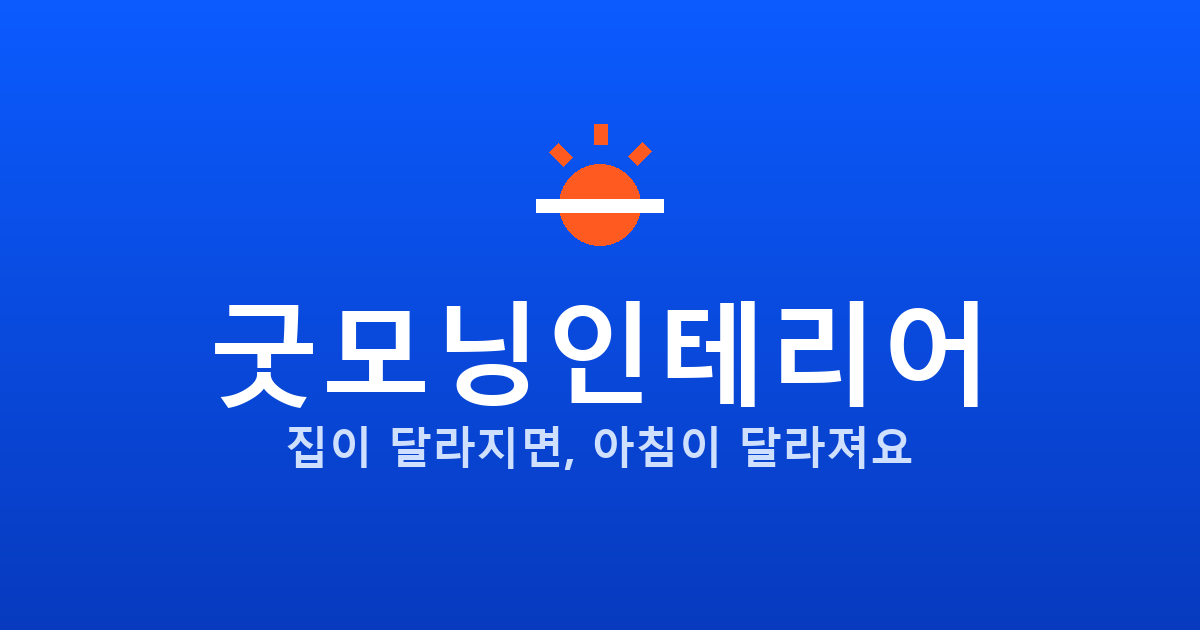
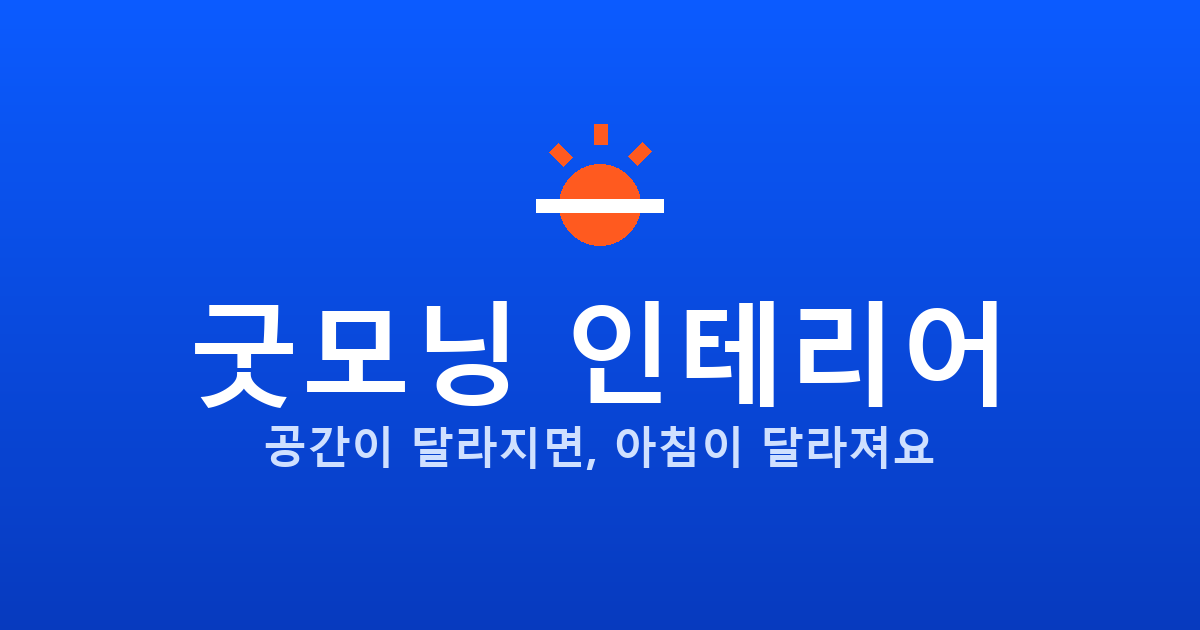
상호 띄어쓰기 + 슬로건 문구 + 지하철 배지 정리
- 굿모닝인테리어 -> 굿모닝 인테리어 (타이틀/OG/브랜드/푸터 전체)
- 슬로건: 집이 달라지면 -> 공간이 달라지면 (브랜드/OG/메타)
- 주소줄의 파란 4호선 배지 아이콘 삭제(게이트·푸터), 4호선 텍스트는 유지
- OG 이미지 상호/슬로건 반영해 재생성

Changed region(s): [[0.1542, 0.4524, 0.8325, 0.754]]

diff --git a/index.html b/index.html
@@ -1,24 +1,24 @@
 <meta charset="utf-8">
-<title>굿모닝인테리어 — 상계동 인테리어 시공·리모델링</title>
+<title>굿모닝 인테리어 — 상계동 인테리어 시공·리모델링</title>
 <meta name="viewport" content="width=device-width, initial-scale=1, viewport-fit=cover">
-<meta name="description" content="서울 노원구 상계동 굿모닝인테리어 — 아파트·빌라·상가 인테리어 시공과 리모델링. 시공사례를 보고 무료 견적을 받아보세요. 4호선 불암산역 3번 출구 50m.">
+<meta name="description" content="서울 노원구 상계동 굿모닝 인테리어 — 아파트·빌라·상가 인테리어 시공과 리모델링. 시공사례를 보고 무료 견적을 받아보세요. 4호선 불암산역 3번 출구 50m.">
 <link rel="canonical" href="https://gmit.pages.dev/">
 <link rel="icon" href="favicon.svg" type="image/svg+xml">
 <link rel="icon" href="favicon.ico" sizes="any">
 <link rel="apple-touch-icon" href="apple-touch-icon.png">
 <meta property="og:type" content="website">
-<meta property="og:site_name" content="굿모닝인테리어">
-<meta property="og:title" content="굿모닝인테리어 — 상계동 인테리어 시공·리모델링">
-<meta property="og:description" content="집이 달라지면, 아침이 달라져요. 시공사례를 보고 무료 견적을 받아보세요. 4호선 불암산역 3번 출구 50m.">
+<meta property="og:site_name" content="굿모닝 인테리어">
+<meta property="og:title" content="굿모닝 인테리어 — 상계동 인테리어 시공·리모델링">
+<meta property="og:description" content="공간이 달라지면, 아침이 달라져요. 시공사례를 보고 무료 견적을 받아보세요. 4호선 불암산역 3번 출구 50m.">
 <meta property="og:image" content="https://gmit.pages.dev/og.png">
 <meta property="og:image:width" content="1200">
 <meta property="og:image:height" content="630">
-<meta property="og:image:alt" content="굿모닝인테리어 — 집이 달라지면, 아침이 달라져요">
+<meta property="og:image:alt" content="굿모닝 인테리어 — 공간이 달라지면, 아침이 달라져요">
 <meta property="og:url" content="https://gmit.pages.dev/">
 <meta property="og:locale" content="ko_KR">
 <meta name="twitter:card" content="summary_large_image">
-<meta name="twitter:title" content="굿모닝인테리어 — 상계동 인테리어 시공·리모델링">
-<meta name="twitter:description" content="집이 달라지면, 아침이 달라져요. 시공사례를 보고 무료 견적을 받아보세요.">
+<meta name="twitter:title" content="굿모닝 인테리어 — 상계동 인테리어 시공·리모델링">
+<meta name="twitter:description" content="공간이 달라지면, 아침이 달라져요. 시공사례를 보고 무료 견적을 받아보세요.">
 <meta name="twitter:image" content="https://gmit.pages.dev/og.png">
 <style>
   :root {
@@ -398,10 +398,10 @@
         <line x1="5" y1="7" x2="7.4" y2="9.4" stroke="var(--orange)" stroke-width="2" stroke-linecap="round"/>
         <line x1="21" y1="7" x2="18.6" y2="9.4" stroke="var(--orange)" stroke-width="2" stroke-linecap="round"/>
       </svg>
-      <span class="brand-name">굿모닝인테리어</span>
+      <span class="brand-name">굿모닝 인테리어</span>
     </h1>
-    <p class="brand-tag">집이 달라지면, 아침이 달라져요</p>
-    <p class="brand-where"><span class="badge-line4" aria-hidden="true">4</span> 4호선 불암산역 3번 출구 50m · 서울 노원구 상계동</p>
+    <p class="brand-tag">공간이 달라지면, 아침이 달라져요</p>
+    <p class="brand-where">4호선 불암산역 3번 출구 50m · 서울 노원구 상계동</p>
   </header>
 
   <div class="gate-panels">
@@ -735,8 +735,8 @@
 <!-- ============================ FOOTER ============================ -->
 <footer>
   <div class="wrap">
-    <p><strong style="color:var(--ink)">굿모닝인테리어</strong> · 서울 노원구 상계로37길 2</p>
-    <p><span class="badge-line4" aria-hidden="true">4</span> 4호선 불암산역 3번 출구에서 50m, 걸어서 1분이에요.</p>
+    <p><strong style="color:var(--ink)">굿모닝 인테리어</strong> · 서울 노원구 상계로37길 2</p>
+    <p>4호선 불암산역 3번 출구에서 50m, 걸어서 1분이에요.</p>
   </div>
 </footer>
 